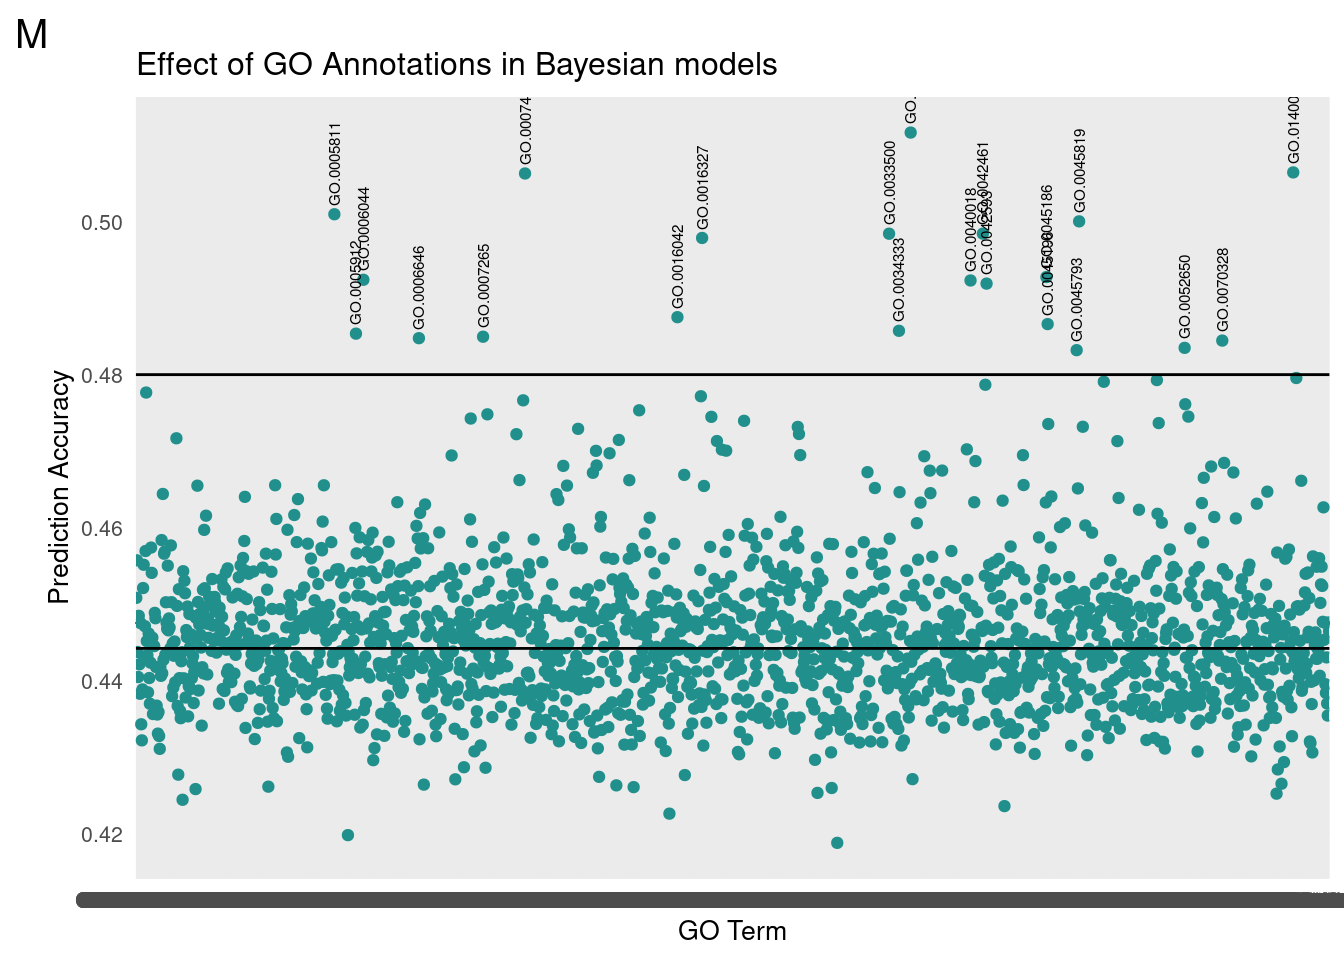
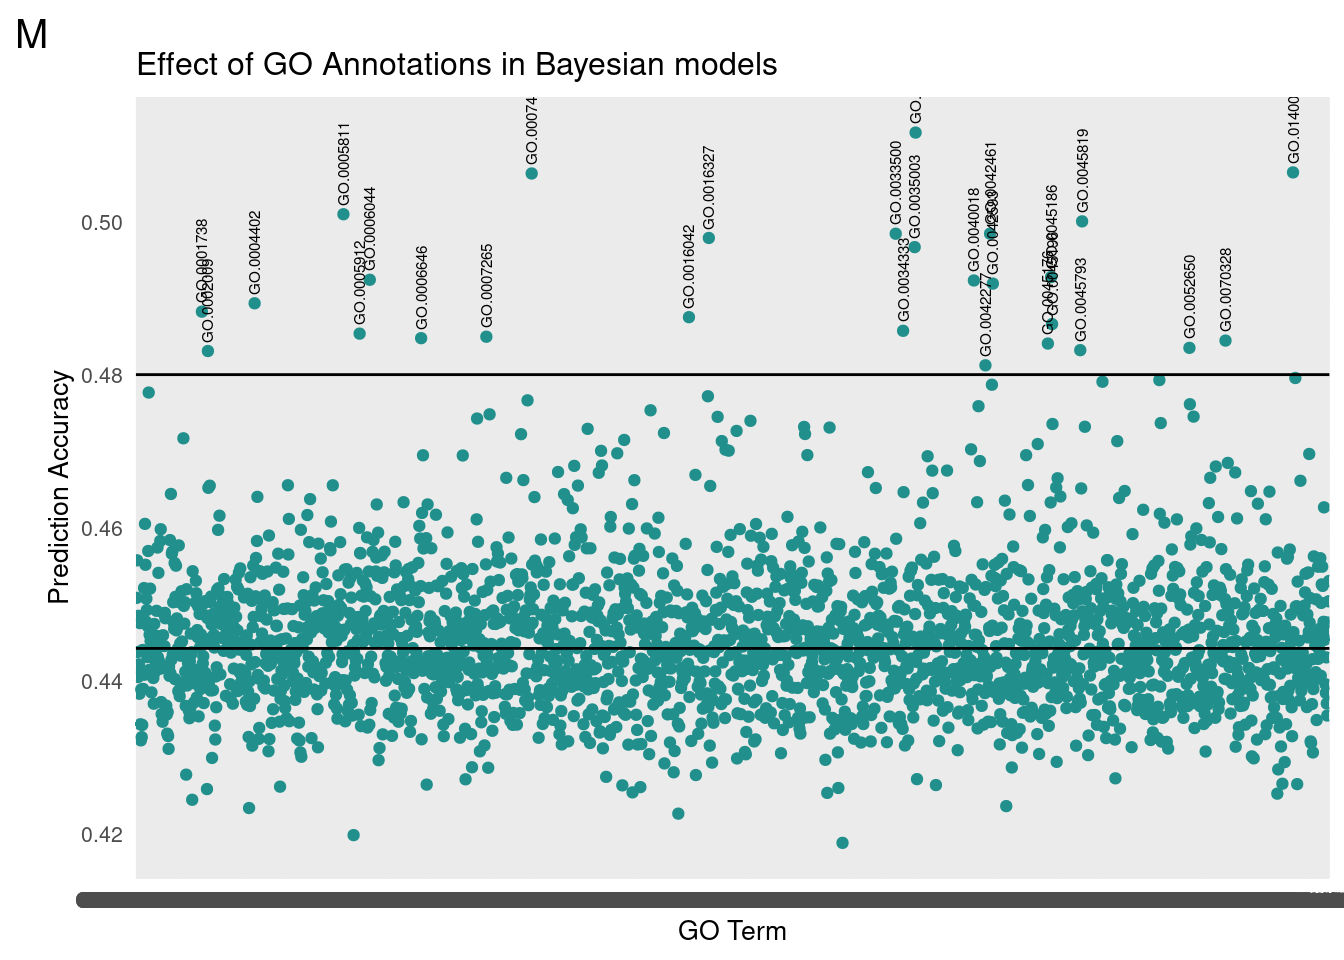
Build site.

diff --git a/docs/goReport.html b/docs/goReport.html
@@ -394,7 +394,7 @@ div.tocify {
 <div class="tab-content">
 <div id="summary" class="tab-pane fade in active">
 <p>
-<strong>Last updated:</strong> 2023-11-28
+<strong>Last updated:</strong> 2023-11-29
 </p>
 <p>
 <strong>Checks:</strong> <span class="glyphicon glyphicon-ok text-success" aria-hidden="true"></span> 7 <span class="glyphicon glyphicon-exclamation-sign text-danger" aria-hidden="true"></span> 0
@@ -485,16 +485,16 @@ This reproducible <a href="https://rmarkdown.rstudio.com">R Markdown</a> analysi
 <div class="panel panel-default">
 <div class="panel-heading">
 <p class="panel-title">
-<a data-toggle="collapse" data-parent="#workflowr-checks" href="#strongRepositoryversionstrongahrefhttpsgithubcomnklimkodgrpstarvetreec608e9c0e29c07c93d27005074b3d24336b1a7dctargetblankc608e9ca"> <span class="glyphicon glyphicon-ok text-success" aria-hidden="true"></span> <strong>Repository version:</strong> <a href="https://github.com/nklimko/dgrp-starve/tree/c608e9c0e29c07c93d27005074b3d24336b1a7dc" target="_blank">c608e9c</a> </a>
+<a data-toggle="collapse" data-parent="#workflowr-checks" href="#strongRepositoryversionstrongahrefhttpsgithubcomnklimkodgrpstarvetree624825a5df62cd6b4cb5339efac542c809770e9dtargetblank624825aa"> <span class="glyphicon glyphicon-ok text-success" aria-hidden="true"></span> <strong>Repository version:</strong> <a href="https://github.com/nklimko/dgrp-starve/tree/624825a5df62cd6b4cb5339efac542c809770e9d" target="_blank">624825a</a> </a>
 </p>
 </div>
[2 lines of base64/hex data omitted]
 <div class="panel-body">
 <p>
 Great! You are using Git for version control. Tracking code development and connecting the code version to the results is critical for reproducibility.
 </p>
 <p>
-The results in this page were generated with repository version <a href="https://github.com/nklimko/dgrp-starve/tree/c608e9c0e29c07c93d27005074b3d24336b1a7dc" target="_blank">c608e9c</a>. See the <em>Past versions</em> tab to see a history of the changes made to the R Markdown and HTML files.
+The results in this page were generated with repository version <a href="https://github.com/nklimko/dgrp-starve/tree/624825a5df62cd6b4cb5339efac542c809770e9d" target="_blank">624825a</a>. See the <em>Past versions</em> tab to see a history of the changes made to the R Markdown and HTML files.
 </p>
 <p>
 Note that you need to be careful to ensure that all relevant files for the analysis have been committed to Git prior to generating the results (you can use <code>wflow_publish</code> or <code>wflow_git_commit</code>). workflowr only checks the R Markdown file, but you know if there are other scripts or data files that it depends on. Below is the status of the Git repository when the results were generated:
@@ -550,7 +550,9 @@ Ignored files:
     Ignored:    zz_lost/
 
 Untracked files:
+    Untracked:  analysis/allotter.R
     Untracked:  analysis/old_index.Rmd.Rmd
+    Untracked:  analysis/pippin.Rmd
     Untracked:  forester.R
     Untracked:  malegofind.R
     Untracked:  snake/code/binner.R
@@ -562,6 +564,7 @@ Untracked files:
     Untracked:  snake/code/go/
     Untracked:  snake/code/method/bayesHome.R
     Untracked:  snake/code/method/multiplotGO.Rmd
+    Untracked:  snake/code/method/sparse.R
     Untracked:  snake/code/srfile.yaml
 
 Unstaged changes:
@@ -608,6 +611,40 @@ Message
 </tr>
 </thead>
 <tbody>
+<tr>
+<td>
+Rmd
+</td>
+<td>
+<a href="https://github.com/nklimko/dgrp-starve/blob/624825a5df62cd6b4cb5339efac542c809770e9d/analysis/goReport.Rmd" target="_blank">624825a</a>
+</td>
+<td>
+nklimko
+</td>
+<td>
+2023-11-29
+</td>
+<td>
+wflow_publish(“analysis/goReport.Rmd”)
+</td>
+</tr>
+<tr>
+<td>
+html
+</td>
+<td>
+<a href="https://rawcdn.githack.com/nklimko/dgrp-starve/5585964c904c7dcafe20d18a51601c5daa69a7f5/docs/goReport.html" target="_blank">5585964</a>
+</td>
+<td>
+nklimko
+</td>
+<td>
+2023-11-28
+</td>
+<td>
+Build site.
+</td>
+</tr>
 <tr>
 <td>
 Rmd
@@ -1027,8 +1064,7 @@ m1 &lt;- termReader(&#39;GO.0035008&#39;, &#39;m&#39;)
 m2 &lt;- termReader(&#39;GO.0140042&#39;, &#39;m&#39;)
 m3 &lt;- termReader(&#39;GO.0007485&#39;, &#39;m&#39;)
 m4 &lt;- termReader(&#39;GO.0005811&#39;, &#39;m&#39;)</code></pre>
-<pre class="r"><code>nonReader &lt;- function(term, sex)
-{
+<pre class="r"><code>nonReader &lt;- function(term, sex){
   
   idPath &lt;- paste0(&#39;snake/data/go/03_goterms/sex&#39;, sex,&#39;/&#39;, term, &#39;.Rds&#39;)
   fitPath &lt;- paste0(&#39;snake/data/go/25_fit/sex&#39;, sex,&#39;/&#39;, term, &#39;/bayesFull.Rds&#39;)
@@ -1316,19 +1352,25 @@ nklimko
  6: GO.0042461 0.4984272
  7: GO.0033500 0.4984207
  8: GO.0016327 0.4978650
- 9: GO.0045186 0.4927519
-10: GO.0006044 0.4924000
-11: GO.0040018 0.4923077
-12: GO.0042593 0.4918994
-13: GO.0016042 0.4875109
-14: GO.0045196 0.4866070
-15: GO.0034333 0.4857293
-16: GO.0005912 0.4853594
-17: GO.0007265 0.4849572
-18: GO.0006646 0.4847660
-19: GO.0070328 0.4844510
-20: GO.0052650 0.4835012
-21: GO.0045793 0.4831989
+ 9: GO.0035003 0.4966652
+10: GO.0045186 0.4927519
+11: GO.0006044 0.4924000
+12: GO.0040018 0.4923077
+13: GO.0042593 0.4918994
+14: GO.0004402 0.4893254
+15: GO.0001738 0.4882313
+16: GO.0016042 0.4875109
+17: GO.0045196 0.4866070
+18: GO.0034333 0.4857293
+19: GO.0005912 0.4853594
+20: GO.0007265 0.4849572
+21: GO.0006646 0.4847660
+22: GO.0070328 0.4844510
+23: GO.0045176 0.4840628
+24: GO.0052650 0.4835012
+25: GO.0045793 0.4831989
+26: GO.0002009 0.4830880
+27: GO.0042277 0.4812196
           term       cor</code></pre>
 </div>
 <div id="posterior-inclusion-probability-of-go-portion-1" class="section level4">
@@ -1461,9 +1503,18 @@ geneMatchM &lt;- readRDS(&#39;snake/goPost/finalDataM.Rds&#39;)
 
 hitF &lt;- geneMatchF[which(count&gt;2),]
 hitM &lt;- geneMatchM[which(count&gt;2),]
+
+parm &lt;- dim(hitM)[1] - dim(hitF)[1]
+
+filler &lt;- data.table(matrix(rep(NA, 3*parm), ncol=3))
+
+hitF &lt;- rbind(hitF, filler, use.names=FALSE)
+
 d1 &lt;- cbind(hitF, hitM)
 
 colnames(d1) &lt;- c(&#39;Female Gene&#39;, &#39;Count&#39;, &#39;Gene&#39;, &#39;Male Gene&#39;, &#39;Count&#39;, &#39;Gene&#39;)
+
+options(knitr.kable.NA = &#39;&#39;)
 
 kable(d1, caption = &#39;Top Female and Male Genes&#39;, &quot;simple&quot;)</code></pre>
 <table>
@@ -1483,117 +1534,173 @@ kable(d1, caption = &#39;Top Female and Male Genes&#39;, &quot;simple&quot;)</co
 <td align="left">FBgn0025595</td>
 <td align="right">8</td>
 <td align="left">AkhR</td>
-<td align="left">FBgn0265778</td>
-<td align="right">5</td>
-<td align="left">PDZ-GEF</td>
+<td align="left">FBgn0261873</td>
+<td align="right">9</td>
+<td align="left">sdt</td>
 </tr>
 <tr class="even">
 <td align="left">FBgn0000575</td>
 <td align="right">7</td>
 <td align="left">emc</td>
 <td align="left">FBgn0025595</td>
-<td align="right">5</td>
+<td align="right">6</td>
 <td align="left">AkhR</td>
 </tr>
 <tr class="odd">
 <td align="left">FBgn0004552</td>
 <td align="right">4</td>
 <td align="left">Akh</td>
-<td align="left">FBgn0261873</td>
-<td align="right">5</td>
-<td align="left">sdt</td>
+<td align="left">FBgn0067864</td>
+<td align="right">6</td>
+<td align="left">Patj</td>
 </tr>
 <tr class="even">
 <td align="left">FBgn0283499</td>
 <td align="right">4</td>
 <td align="left">InR</td>
-<td align="left">FBgn0036046</td>
-<td align="right">5</td>
-<td align="left">Ilp2</td>
+<td align="left">FBgn0261854</td>
+<td align="right">6</td>
+<td align="left">aPKC</td>
 </tr>
 <tr class="odd">
 <td align="left">FBgn0003731</td>
 <td align="right">4</td>
 <td align="left">Egfr</td>
-<td align="left">FBgn0283499</td>
+<td align="left">FBgn0265778</td>
 <td align="right">5</td>
-<td align="left">InR</td>
+<td align="left">PDZ-GEF</td>
 </tr>
 <tr class="even">
 <td align="left">FBgn0000490</td>
 <td align="right">4</td>
 <td align="left">dpp</td>
-<td align="left">FBgn0086687</td>
-<td align="right">4</td>
-<td align="left">Desat1</td>
+<td align="left">FBgn0036046</td>
+<td align="right">5</td>
+<td align="left">Ilp2</td>
 </tr>
 <tr class="odd">
 <td align="left">FBgn0003205</td>
 <td align="right">4</td>
 <td align="left">Ras85D</td>
-<td align="left">FBgn0036449</td>
-<td align="right">3</td>
-<td align="left">bmm</td>
+<td align="left">FBgn0283499</td>
+<td align="right">5</td>
+<td align="left">InR</td>
 </tr>
 <tr class="even">
 <td align="left">FBgn0262738</td>
 <td align="right">4</td>
 <td align="left">norpA</td>
-<td align="left">FBgn0004552</td>
-<td align="right">3</td>
-<td align="left">Akh</td>
+<td align="left">FBgn0026192</td>
+<td align="right">5</td>
+<td align="left">par-6</td>
 </tr>
 <tr class="odd">
 <td align="left">FBgn0010303</td>
 <td align="right">3</td>
 <td align="left">hep</td>
-<td align="left">FBgn0003205</td>
-<td align="right">3</td>
-<td align="left">Ras85D</td>
+<td align="left">FBgn0259685</td>
+<td align="right">4</td>
+<td align="left">crb</td>
 </tr>
 <tr class="even">
 <td align="left">FBgn0015279</td>
 <td align="right">3</td>
 <td align="left">Pi3K92E</td>
-<td align="left">FBgn0015279</td>
-<td align="right">3</td>
-<td align="left">Pi3K92E</td>
+<td align="left">FBgn0263289</td>
+<td align="right">4</td>
+<td align="left">scrib</td>
 </tr>
 <tr class="odd">
 <td align="left">FBgn0033799</td>
 <td align="right">3</td>
 <td align="left">GLaz</td>
-<td align="left">FBgn0067864</td>
-<td align="right">3</td>
-<td align="left">Patj</td>
+<td align="left">FBgn0003391</td>
+<td align="right">4</td>
+<td align="left">shg</td>
 </tr>
 <tr class="even">
 <td align="left">FBgn0036449</td>
 <td align="right">3</td>
 <td align="left">bmm</td>
-<td align="left">FBgn0261854</td>
-<td align="right">3</td>
-<td align="left">aPKC</td>
+<td align="left">FBgn0086687</td>
+<td align="right">4</td>
+<td align="left">Desat1</td>
 </tr>
 <tr class="odd">
 <td align="left">FBgn0003463</td>
 <td align="right">3</td>
 <td align="left">sog</td>
-<td align="left">FBgn0263289</td>
+<td align="left">FBgn0036449</td>
 <td align="right">3</td>
-<td align="left">scrib</td>
+<td align="left">bmm</td>
 </tr>
 <tr class="even">
 <td align="left">FBgn0003719</td>
 <td align="right">3</td>
 <td align="left">tld</td>
+<td align="left">FBgn0004552</td>
+<td align="right">3</td>
+<td align="left">Akh</td>
+</tr>
+<tr class="odd">
+<td align="left"></td>
+<td align="right"></td>
+<td align="left"></td>
+<td align="left">FBgn0003205</td>
+<td align="right">3</td>
+<td align="left">Ras85D</td>
+</tr>
+<tr class="even">
+<td align="left"></td>
+<td align="right"></td>
+<td align="left"></td>
+<td align="left">FBgn0015279</td>
+<td align="right">3</td>
+<td align="left">Pi3K92E</td>
+</tr>
+<tr class="odd">
+<td align="left"></td>
+<td align="right"></td>
+<td align="left"></td>
+<td align="left">FBgn0041191</td>
+<td align="right">3</td>
+<td align="left">Rheb</td>
+</tr>
+<tr class="even">
+<td align="left"></td>
+<td align="right"></td>
+<td align="left"></td>
+<td align="left">FBgn0002121</td>
+<td align="right">3</td>
+<td align="left">l(2)gl</td>
+</tr>
+<tr class="odd">
+<td align="left"></td>
+<td align="right"></td>
+<td align="left"></td>
+<td align="left">FBgn0011661</td>
+<td align="right">3</td>
+<td align="left">Moe</td>
+</tr>
+<tr class="even">
+<td align="left"></td>
+<td align="right"></td>
+<td align="left"></td>
+<td align="left">FBgn0000163</td>
+<td align="right">3</td>
+<td align="left">baz</td>
+</tr>
+<tr class="odd">
+<td align="left"></td>
+<td align="right"></td>
+<td align="left"></td>
 <td align="left">FBgn0024248</td>
 <td align="right">3</td>
 <td align="left">chico</td>
 </tr>
 </tbody>
 </table>
-<p>The following five genes are implicated in both male and female prediction. All are related to some form of lipid processing.</p>
+<p>The following six genes are implicated in both male and female prediction.</p>
 <p>Adipokinetic hormone + receptor:</p>
 <ul>
 <li><a href="http://flybase.org/reports/FBgn0025595">AkhR</a></li>
@@ -1604,9 +1711,10 @@ kable(d1, caption = &#39;Top Female and Male Genes&#39;, &quot;simple&quot;)</co
 <li><a href="http://flybase.org/reports/FBgn0283499">InR</a></li>
 <li><a href="http://flybase.org/reports/FBgn0015279">Pi3K92E</a></li>
 </ul>
-<p>Brummer: triglyceride lipase:</p>
+<p>Others:</p>
 <ul>
-<li><a href="http://flybase.org/reports/FBgn0036449">bmm</a></li>
+<li><a href="http://flybase.org/reports/FBgn0036449">bmm, a triglyceride lipase</a></li>
+<li><a href="http://flybase.org/reports/FBgn0003205">Ras85D, a receptor tyrosine kinase</a></li>
 </ul>
 <br>
 <p>
